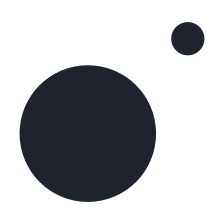
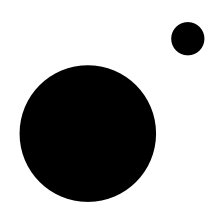
Playing around with colours again, tbc

diff --git a/lib/html/junk-info.html b/lib/html/junk-info.html
@@ -4,8 +4,8 @@
         <defs></defs>
         <g id="Page-1" stroke="none" stroke-width="1" fill="none" fill-rule="evenodd">
             <g id="web-logo">
-                <ellipse id="Oval" fill="#1e232d" cx="18" cy="18" rx="18" ry="18"></ellipse>
-                <circle id="Oval" stroke="#FFFFFF" stroke-width="2" fill="#1e232d" cx="18" cy="18" r="15.6521739"></circle>
+                <ellipse id="Oval" fill="#FFFFFF" cx="18" cy="18" rx="18" ry="18"></ellipse>
+                <circle id="Oval" stroke="#FFFFFF" stroke-width="2" fill="#000000" cx="18" cy="18" r="15.6521739"></circle>
                 <g id="g4300-5" transform="translate(5.478261, 6.730435)" fill="#FFFFFF">
                     <path d="M15.3243872,0.150896549 C10.5946864,0.150896549 6.74106679,4.01182765 6.74106679,8.75052274 C6.74106679,13.4892086 10.5946864,17.3507467 15.3243872,17.3507467 C20.0540881,17.3507467 23.9077076,13.4892086 23.9077076,8.75052274 C23.9077076,4.01182765 20.0540881,0.150896549 15.3243872,0.150896549 Z M15.3243872,1.98572967 C19.0643411,1.98572967 22.0763444,5.00345487 22.0763444,8.75052274 C22.0763444,12.4975814 19.0643411,15.5159043 15.3243872,15.5159043 C11.5844242,15.5159043 8.57243006,12.4975814 8.57243006,8.75052274 C8.57243006,5.00345487 11.5844242,1.98572967 15.3243872,1.98572967 Z" id="path4172-8-2"></path>
                     <polygon id="path4174-2-6" points="8.91699756 13.8751776 0.675867424 21.2145377 1.89200961 22.5858991 10.1331397 15.2465298 8.91699756 13.8751776"></polygon>

diff --git a/lib/css/junk.css b/lib/css/junk.css
@@ -33,7 +33,7 @@ body.no-cursor {
 }
 
 .junk-page-inverted {
-	background: #1e232d;
+	background: #000;
 }
 
 .junk-info {
@@ -42,8 +42,8 @@ body.no-cursor {
 	top: 0px;
 	left: 0px;
 	width: 100%;
-	background: #1e232d;
-	color: #fff;
+	background: #fff;
+	color: #000;
 }
 
 .junk-info .corenominal {
@@ -58,16 +58,16 @@ body.no-cursor {
 	font-weight: normal;
 	margin: 10px 40px 4px 0px;
 	display: inline-block;
-	border-bottom: 1px solid #1e232d;
+	border-bottom: 1px solid #fff;
 }
 
 .junk-info h2:hover {
-	border-bottom: 1px solid #fff;
+	border-bottom: 1px solid #000;
 }
 
 .junk-info a {
 	text-decoration: none;
-	color: #fff;
+	color: #000;
 }
 
 .junk-info ul {
@@ -83,11 +83,11 @@ body.no-cursor {
 .junk-info ul li a {
 	padding: 0;
 	margin-right: 20px;
-	border-bottom: 1px solid #1e232d;
+	border-bottom: 1px solid #fff;
 }
 
 .junk-info ul li a:hover {
-	border-bottom: 1px solid #fff;
+	border-bottom: 1px solid #000;
 }
 
 .code-close {
@@ -97,7 +97,7 @@ body.no-cursor {
 	padding: 10px;
 	display:none;
 	cursor: pointer;
-	background: #1e232d;
+	background: #000;
 	color: #fff;
 }
 
@@ -118,7 +118,7 @@ body.no-cursor {
     resize: none;
     box-sizing: border-box;
     background: #fff;
-	color: #1e232d;
+	color: #000;
 }
 
 .code:focus {
@@ -127,11 +127,11 @@ body.no-cursor {
 }
 
 .code::selection {
-  background: #1e232d;
+  background: #000;
   color: #fff;
 }
 
 .code::-moz-selection {
-  background: #1e232d;
+  background: #000;
   color: #fff;
 }

diff --git a/canvas-animation-video-outro-v01/js/main.js b/canvas-animation-video-outro-v01/js/main.js
@@ -24,7 +24,7 @@ $(document).ready(function()
 		var canvas = document.getElementById( 'spacecanvas' );
 		var c = canvas.getContext('2d');
 		// Initial fill
-		c.fillStyle = 'rgba( 30, 35, 45, 1 )';
+		c.fillStyle = 'rgba( 0, 0, 0, 1 )';
 		c.fillRect(0,0,w,h);
 
 		var fini = false;
@@ -168,7 +168,7 @@ $(document).ready(function()
 		function renderer()
 		{
 			// Clear the canvas
-			c.fillStyle = 'rgba( 30, 35, 45, 1 )';
+			c.fillStyle = 'rgba( 0, 0, 0, 1 )';
 			c.fillRect( 0, 0, w, h );
 
 			// Draw stars

diff --git a/canvas-basic-arcs/js/main.js b/canvas-basic-arcs/js/main.js
@@ -39,7 +39,7 @@ $(document).ready(function()
 			c.beginPath();
 			// c.arc(x position, y position, radius, start angle, end angle, counterclockwise);
 			c.arc( canvasWidth / 2, canvasHeight / 2, radius * i, 0, 2 * PI, false );
-			c.strokeStyle="#1e232d";
+			c.strokeStyle="#000000";
 			c.lineWidth=4;
 			c.stroke();
 		}

diff --git a/canvas-animation-video-outro-v01/css/main.css b/canvas-animation-video-outro-v01/css/main.css
@@ -14,7 +14,7 @@ html {
 }
 
 body {
-	background: #1e232d;
+	background: #000;
 }
 
 .container-canvas {
@@ -27,7 +27,7 @@ body {
 	top: 0;
 	left: 0;
 	color:#fff;
-	background: #1e232d;
+	background: #000;
 	display: table;
 	width: 100%;
 	height: 100%;

diff --git a/canvas-particle-emitter-v07-twitter-header/js/main.js b/canvas-particle-emitter-v07-twitter-header/js/main.js
@@ -26,7 +26,7 @@ $(document).ready(function()
 	var cycles = 0;
 
 	// Initial fill
-	c.fillStyle = 'rgba( 30, 35, 45, 1 )';
+	c.fillStyle = 'rgba( 0, 0, 0, 1 )';
 	c.fillRect( 0, 0, canvasWidth, canvasHeight );
 
 	function particle()
